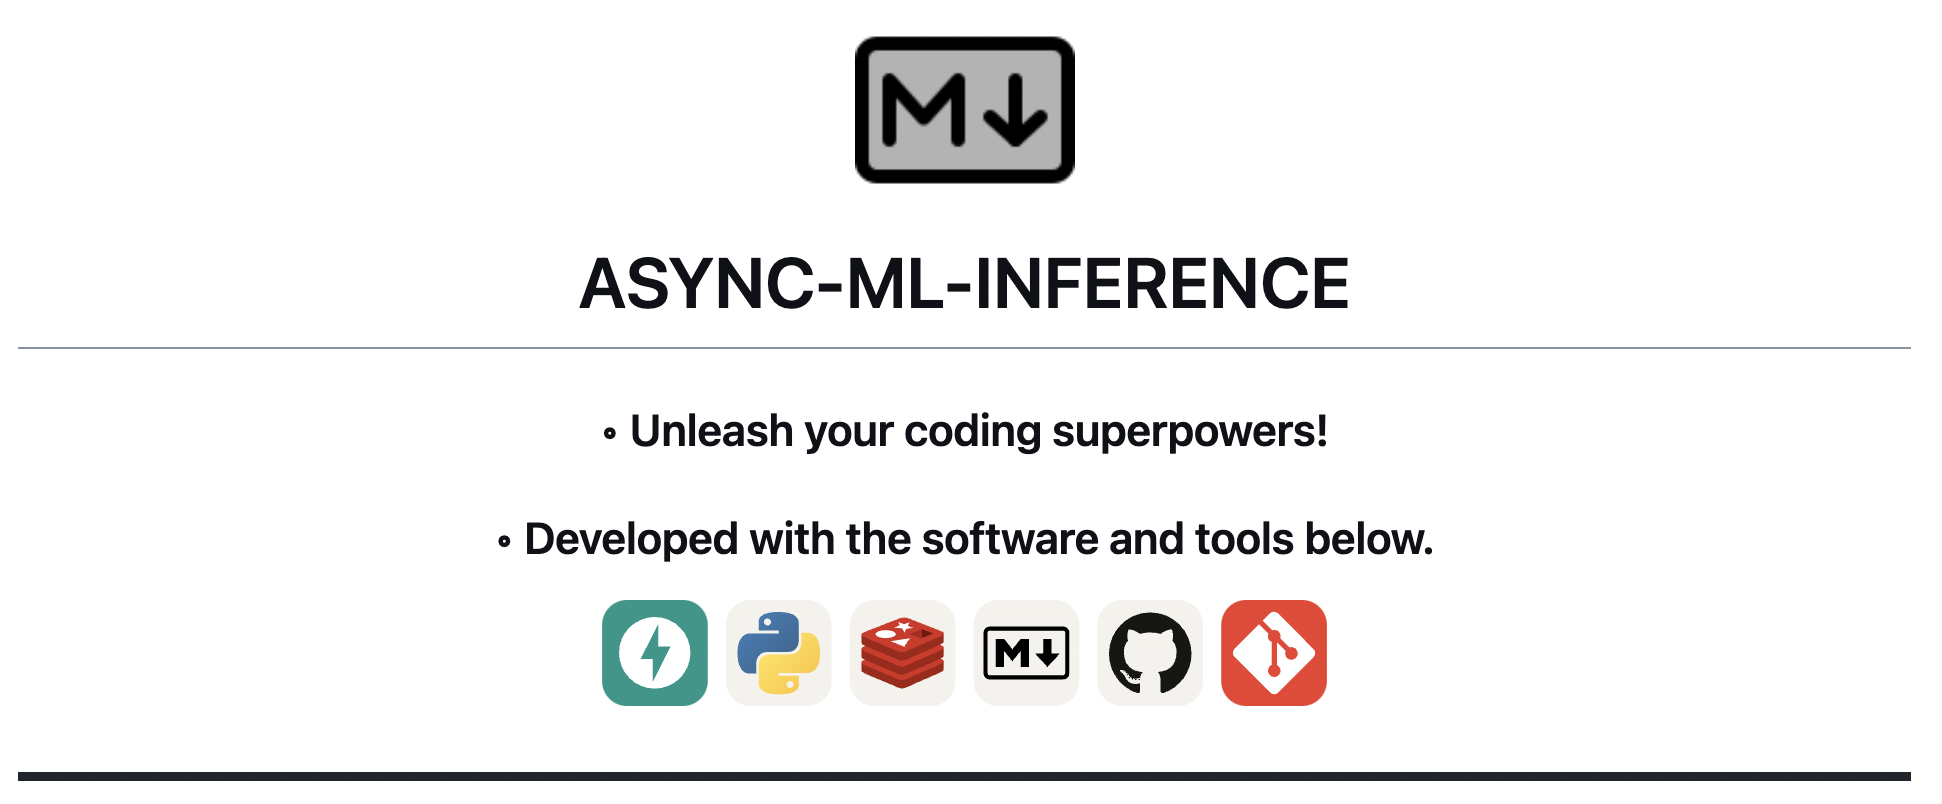
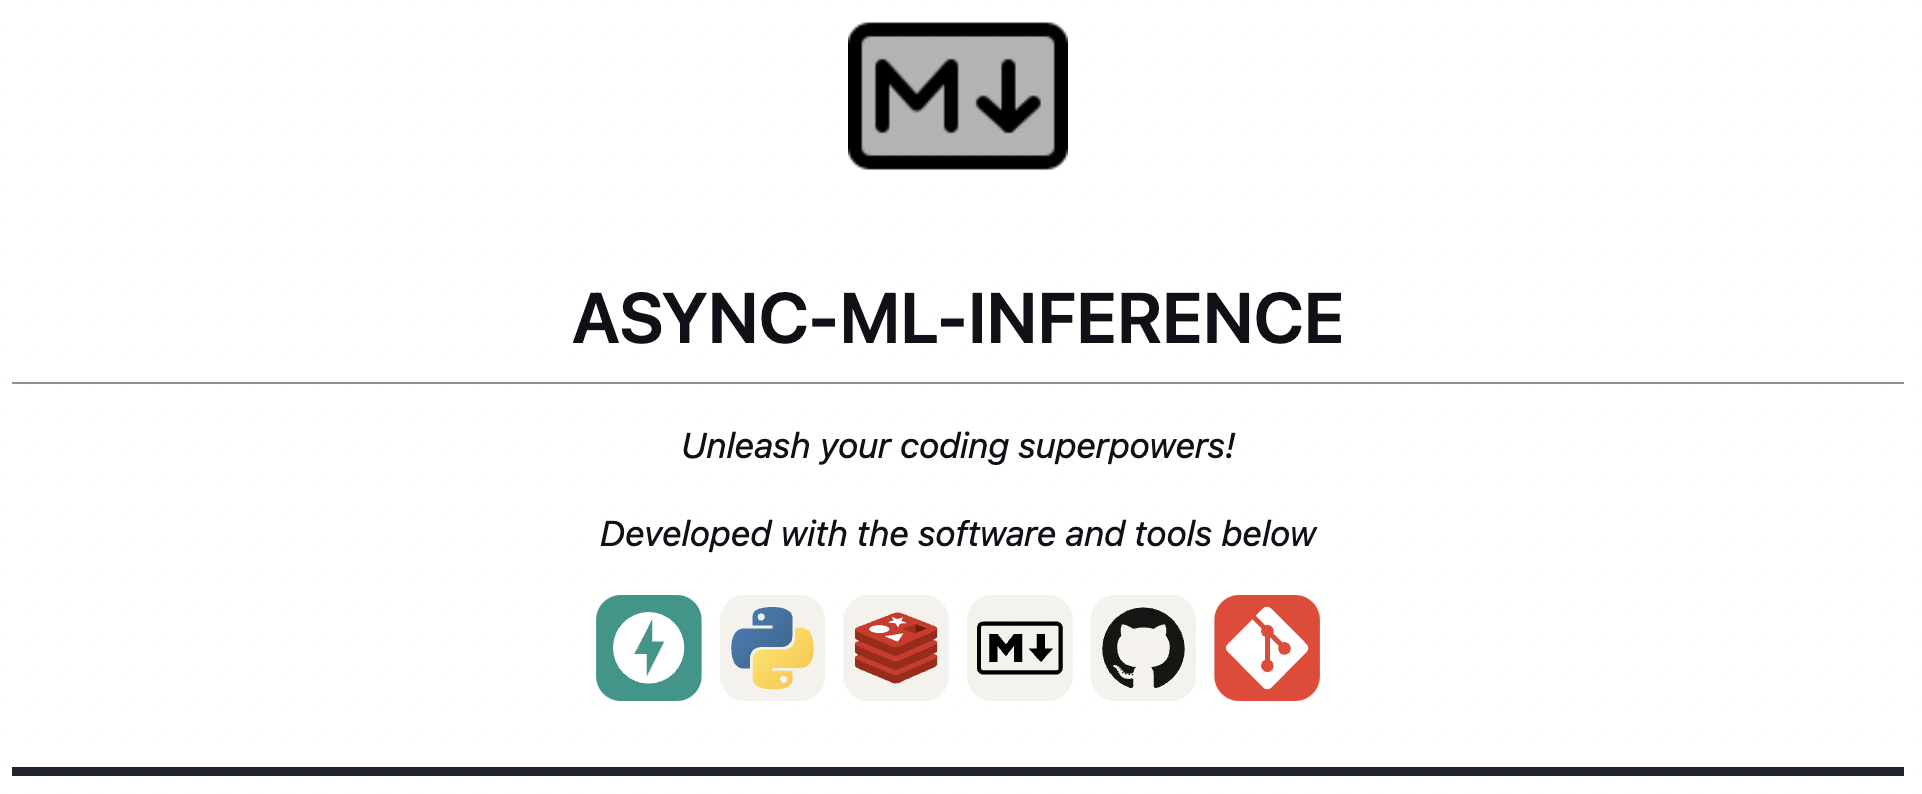
Update example markdown files.

diff --git a/examples/markdown/readme-streamlit.md b/examples/markdown/readme-streamlit.md
@@ -1,28 +1,22 @@
 <div align="center">
 <p align="center">
-  <img src="https://img.icons8.com/external-tal-revivo-filled-tal-revivo/96/external-markdown-a-lightweight-markup-language-with-plain-text-formatting-syntax-logo-filled-tal-revivo.png" width="100" />
+  <img src="https://raw.githubusercontent.com/PKief/vscode-material-icon-theme/ec559a9f6bfd399b82bb44393651661b08aaf7ba/icons/folder-markdown-open.svg" width="100" />
 </p>
 <p align="center">
     <h1 align="center">README-AI-STREAMLIT</h1>
 </p>
 <p align="center">
-    <em>Streamline readme creation with AI-powered Streamlit</em>
+    <em>Streamlining readme generation and AI-powered documentation.</em>
 </p>
 <p align="center">
-	<img src="https://img.shields.io/github/license/eli64s/readme-ai-streamlit?style=plastic" alt="license">
-	<img src="https://img.shields.io/github/last-commit/eli64s/readme-ai-streamlit?style=plastic" alt="last-commit">
-	<img src="https://img.shields.io/github/languages/top/eli64s/readme-ai-streamlit?style=plastic" alt="repo-top-language">
-	<img src="https://img.shields.io/github/languages/count/eli64s/readme-ai-streamlit?style=plastic" alt="repo-language-count">
+	<img src="https://img.shields.io/github/license/eli64s/readme-ai-streamlit?style=standard" alt="license">
+	<img src="https://img.shields.io/github/last-commit/eli64s/readme-ai-streamlit?style=standard" alt="last-commit">
+	<img src="https://img.shields.io/github/languages/top/eli64s/readme-ai-streamlit?style=standard" alt="repo-top-language">
+	<img src="https://img.shields.io/github/languages/count/eli64s/readme-ai-streamlit?style=standard" alt="repo-language-count">
 <p>
 <p align="center">
-    <em>Developed with the software and tools below</em>
+	<!-- standard option, no dependency badges. -->
 </p>
-<p align="center">
-	<img src="https://img.shields.io/badge/GNU%20Bash-4EAA25.svg?style=plastic&logo=GNU-Bash&logoColor=white" alt="GNU%20Bash">
-	<img src="https://img.shields.io/badge/Streamlit-FF4B4B.svg?style=plastic&logo=Streamlit&logoColor=white" alt="Streamlit">
-	<img src="https://img.shields.io/badge/Poetry-60A5FA.svg?style=plastic&logo=Poetry&logoColor=white" alt="Poetry">
-	<img src="https://img.shields.io/badge/Python-3776AB.svg?style=plastic&logo=Python&logoColor=white" alt="Python">
-	<img src="https://img.shields.io/badge/Pytest-0A9EDC.svg?style=plastic&logo=Pytest&logoColor=white" alt="Pytest"></p>
 </div>
 <hr>
 

diff --git a/examples/markdown/readme-fastapi-redis.md b/examples/markdown/readme-fastapi-redis.md
@@ -1,20 +1,26 @@
-<!--README-AI.md file generated by @eli64s/readme-ai-->
-
 <div align="center">
-   <h1><img src="https://img.icons8.com/external-tal-revivo-filled-tal-revivo/96/external-markdown-a-lightweight-markup-language-with-plain-text-formatting-syntax-logo-filled-tal-revivo.png" width="100">
-      <br>
-      ASYNC-ML-INFERENCE
-   </h1>
-   <h3>◦ Unleash your coding superpowers!</h3>
-   <h3>◦ Developed with the software and tools below.</h3>
-</div>
+<p align="center">
+  <img src="https://img.icons8.com/external-tal-revivo-filled-tal-revivo/96/external-markdown-a-lightweight-markup-language-with-plain-text-formatting-syntax-logo-filled-tal-revivo.png" width="100" />
+</p>
+<p align="center">
+    <h1 align="center">ASYNC-ML-INFERENCE</h1>
+</p>
+<p align="center">
+    <em>Unleash your coding superpowers!</em>
+</p>
+<p align="center">
+	<!-- -->
+<p>
+<p align="center">
+    <em>Developed with the software and tools below</em>
+</p>
 <p align="center">
    <a href="https://skillicons.dev">
       <img src="https://skillicons.dev/icons?i=fastapi,py,redis,md,github,git&theme=light">
    </a>
 </p>
-
----
+</div>
+<hr>
 
 ## 🔗 Quick Links
 - [🔗 Quick Links](#-quick-links)

diff --git a/README.md b/README.md
@@ -107,7 +107,7 @@ Below are a few examples of README headers generated by the readme-ai tool.
   </tr>
   <tr>
     <td align="center"><img src="https://raw.githubusercontent.com/eli64s/readme-ai/main/examples/images/header-skills-light.png" alt="skills-light" width="400"/><br><code>--badges skills-light --image grey</code></td>
-    <td align="center"><img src="https://raw.githubusercontent.com/eli64s/readme-ai/main/examples/images/header-offline.png" alt="offline" width="400"/><br><code>--badges flat-square --image blue --offline</code></td>
+    <td align="center"><img src="https://raw.githubusercontent.com/eli64s/readme-ai/main/examples/images/header-offline.png" alt="offline" width="400"/><br><code>default output</code></td>
   </tr>
 </table>
 
